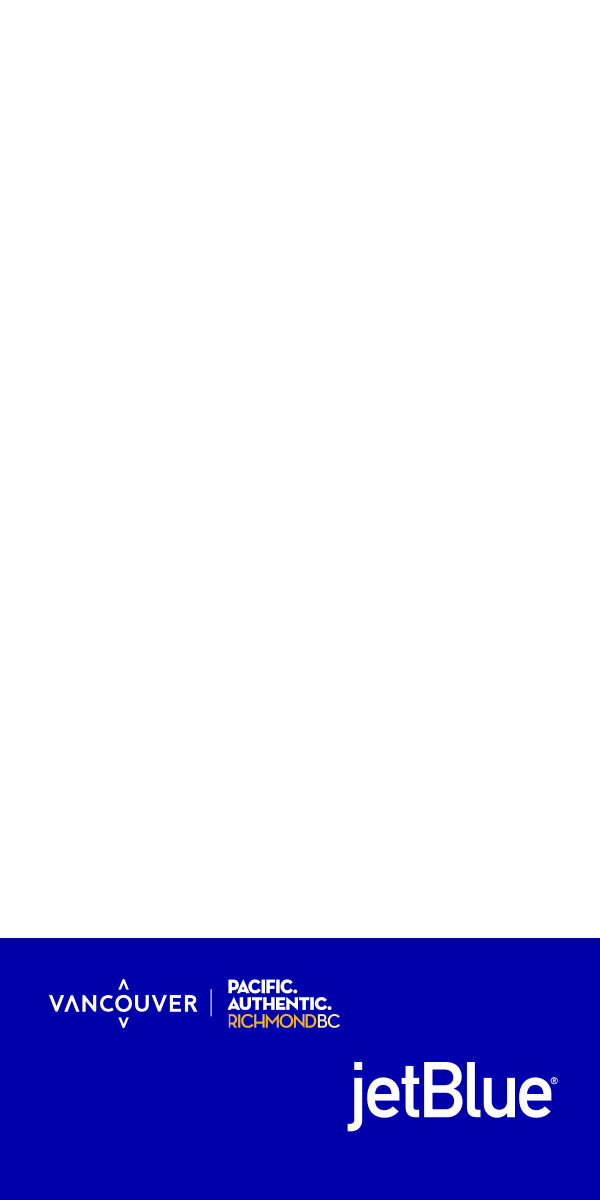
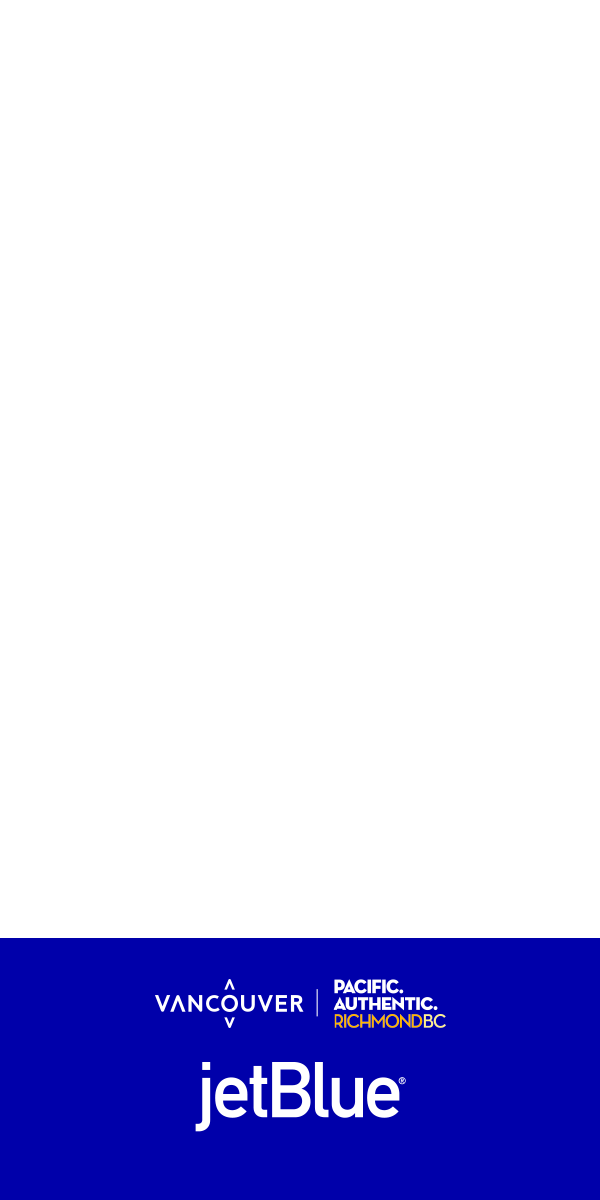
route 2 update

Changed region(s): [[0.09, 0.8017, 0.93, 0.9558]]

diff --git a/route2/richLoads/JB_Retail_24_Europe_NonDynamic_300x600_RL1/stylesRL1.css b/route2/richLoads/JB_Retail_24_Europe_NonDynamic_300x600_RL1/stylesRL1.css
@@ -117,7 +117,7 @@ video {
   height: 74px;
   left: 23px;
   top: 68px;
-/*  text-shadow: 0px 3px 6px rgba(0, 0, 0, 0.26);    */
+ text-shadow: 0px 3px 4px rgba(0, 0, 0, 0.124);   
 }
 #h2{
   top: 330px;
@@ -209,8 +209,9 @@ video {
   font-size: 7px;
   letter-spacing: -0.02em;
   line-height: 8px;
-  left: 56px;
-  width: 192px;
+  left: 0px;
+  width: 300px;
+  text-align: center;
 }
 
 .terms .asterisk {
@@ -354,14 +355,14 @@ video {
 #h3{
   color: #0000aa;
   font-family: "DESKlarheitGrotesk Xbd";
-  font-size: 36px;
-  line-height: 39px;
+  font-size: 28px;
+  line-height: 34px;
   width: 260px;
   left: 23px;
   top: 108px;
 }
 #h3 .from{
-  font-size: 23.5px;
+  font-size: 21.5px;
   font-family: "ESKlarheitGrotesk Smbd";
 }
 #h3 .to{
@@ -372,7 +373,7 @@ video {
 #cta{
   width: 150px;
   left: 23px;
-  top: 326px;
+  top: 270px;
   background-color: #0000AA;
   border-radius: 7px;
   color: #fff;

diff --git a/route2/richLoads/JB_Retail_24_Europe_NonDynamic_300x600_RL1/index.html b/route2/richLoads/JB_Retail_24_Europe_NonDynamic_300x600_RL1/index.html
@@ -27,7 +27,7 @@
       <div id="endframeBg">
         <div id="pinkRibbon"></div>
         <div id="h3" class="hidden"><span class="from">Nonstop flights from</span><br>
-          NYC <span class="to">to</span><br>Vancouver</div>
+          NYC <span class="to">to</span> Vancouver</div>
         <div id="cta" class="hidden">Book now</div> 
       </div>
       <div id="main_content" class="">
